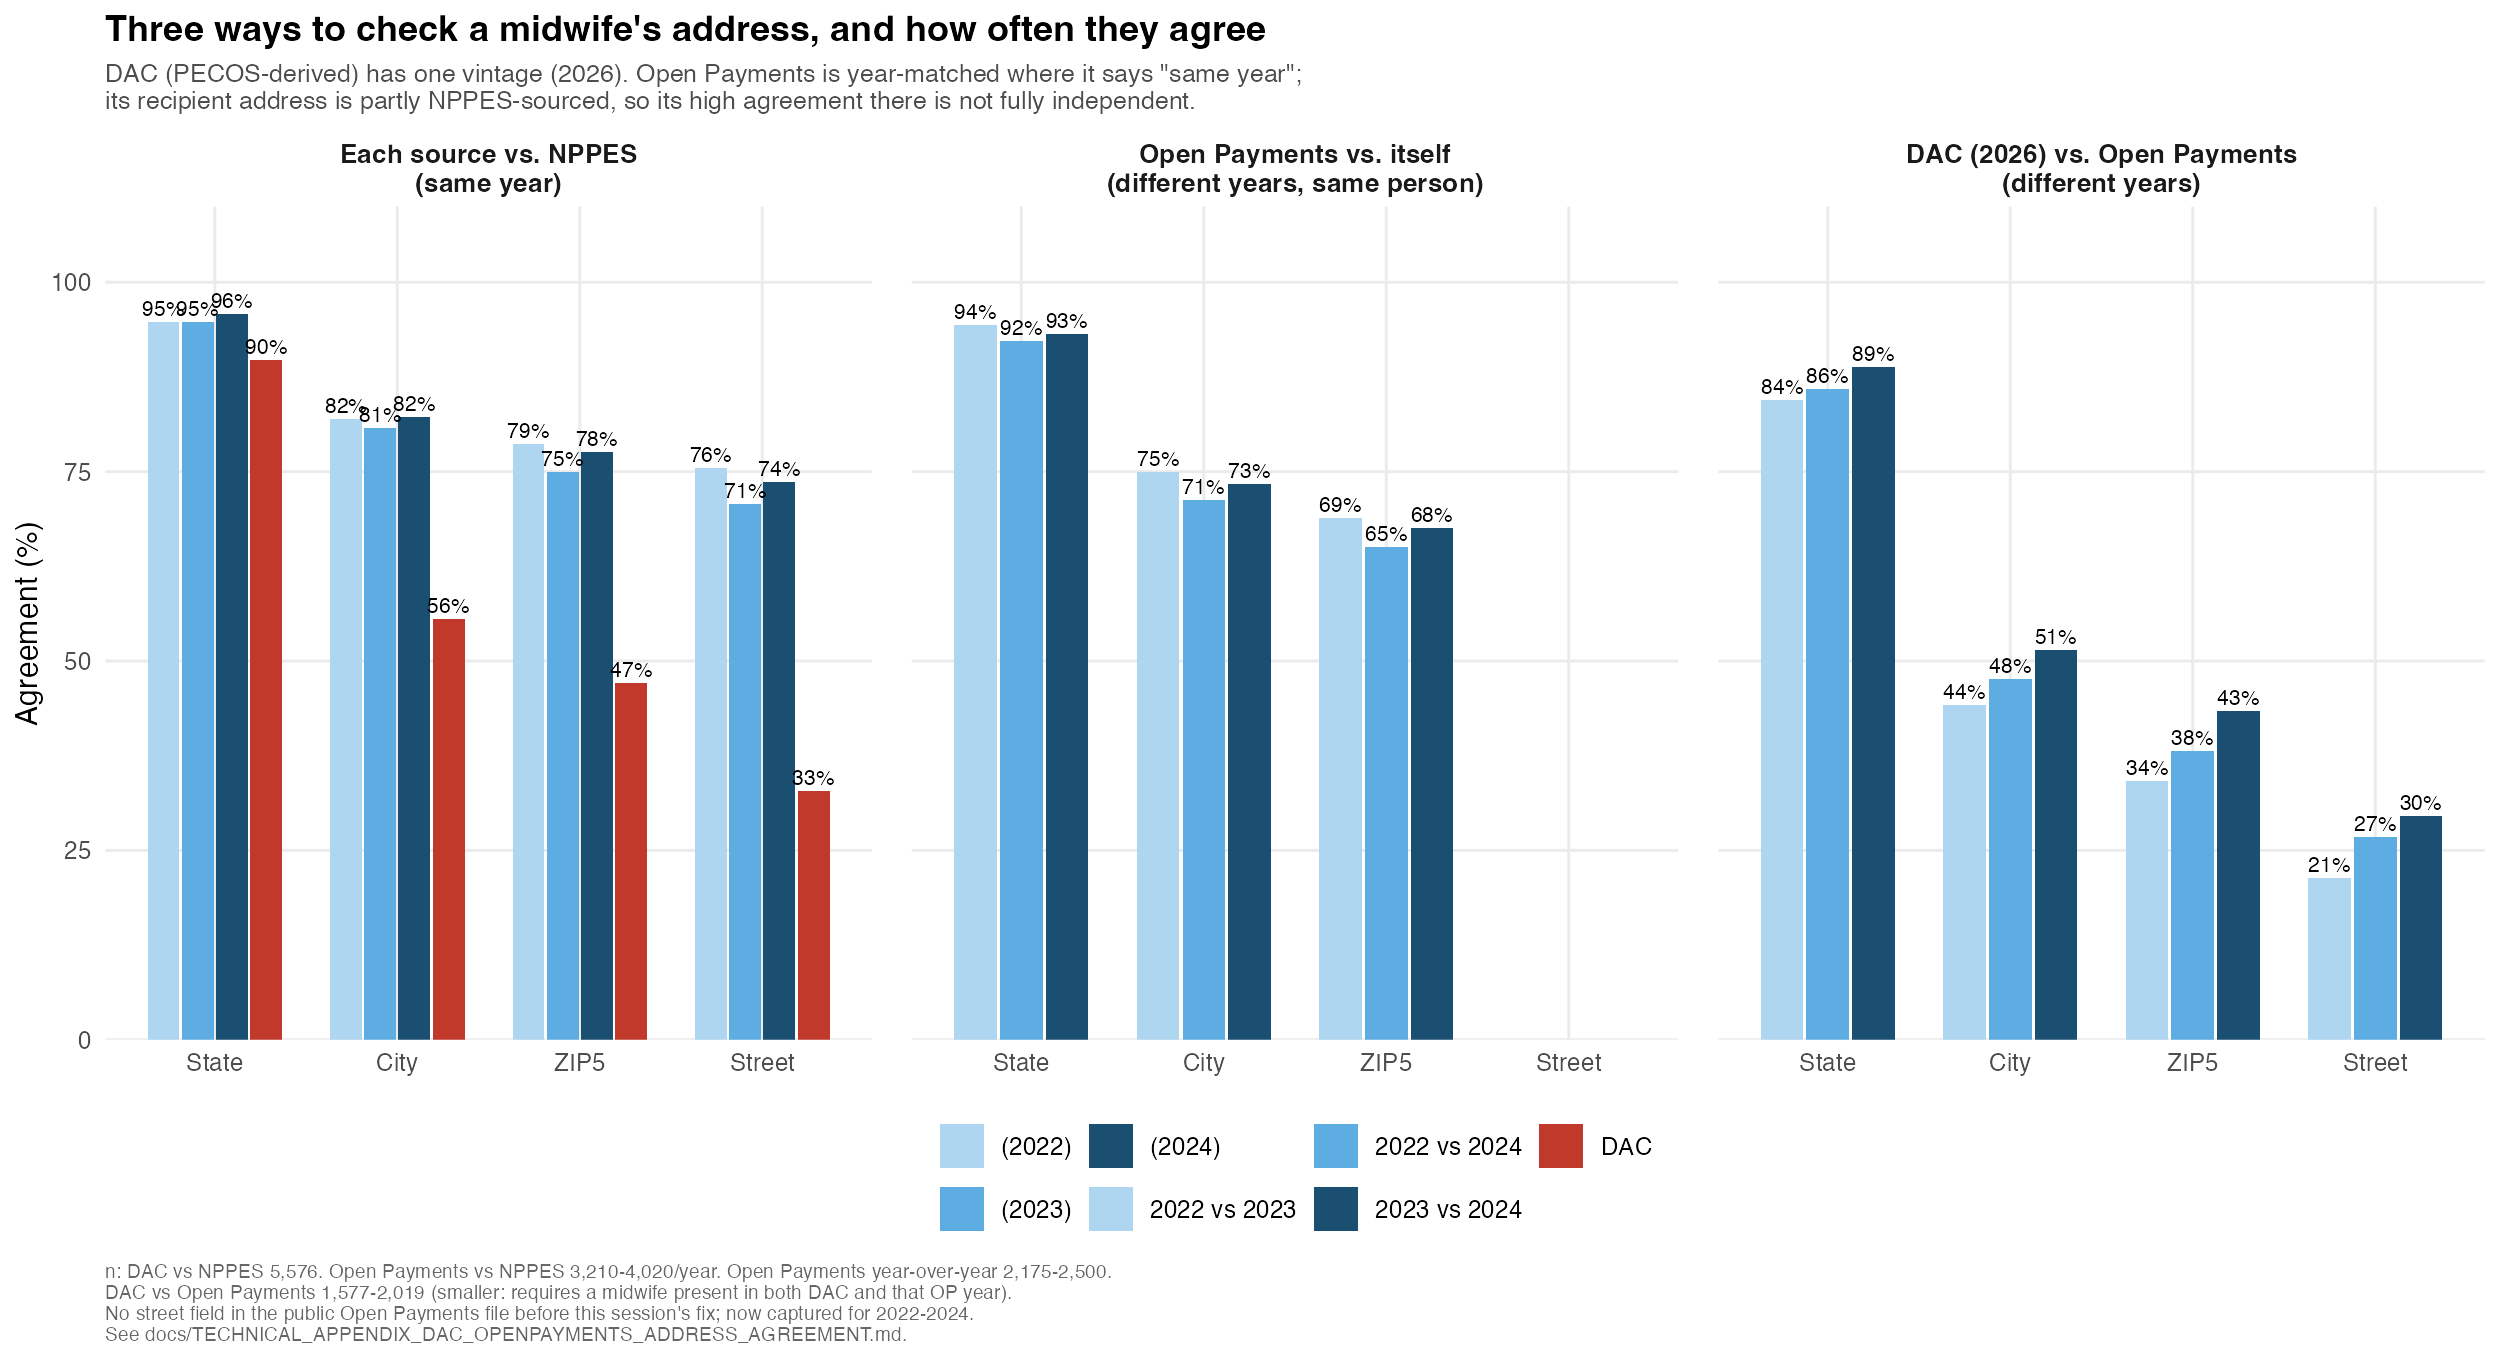
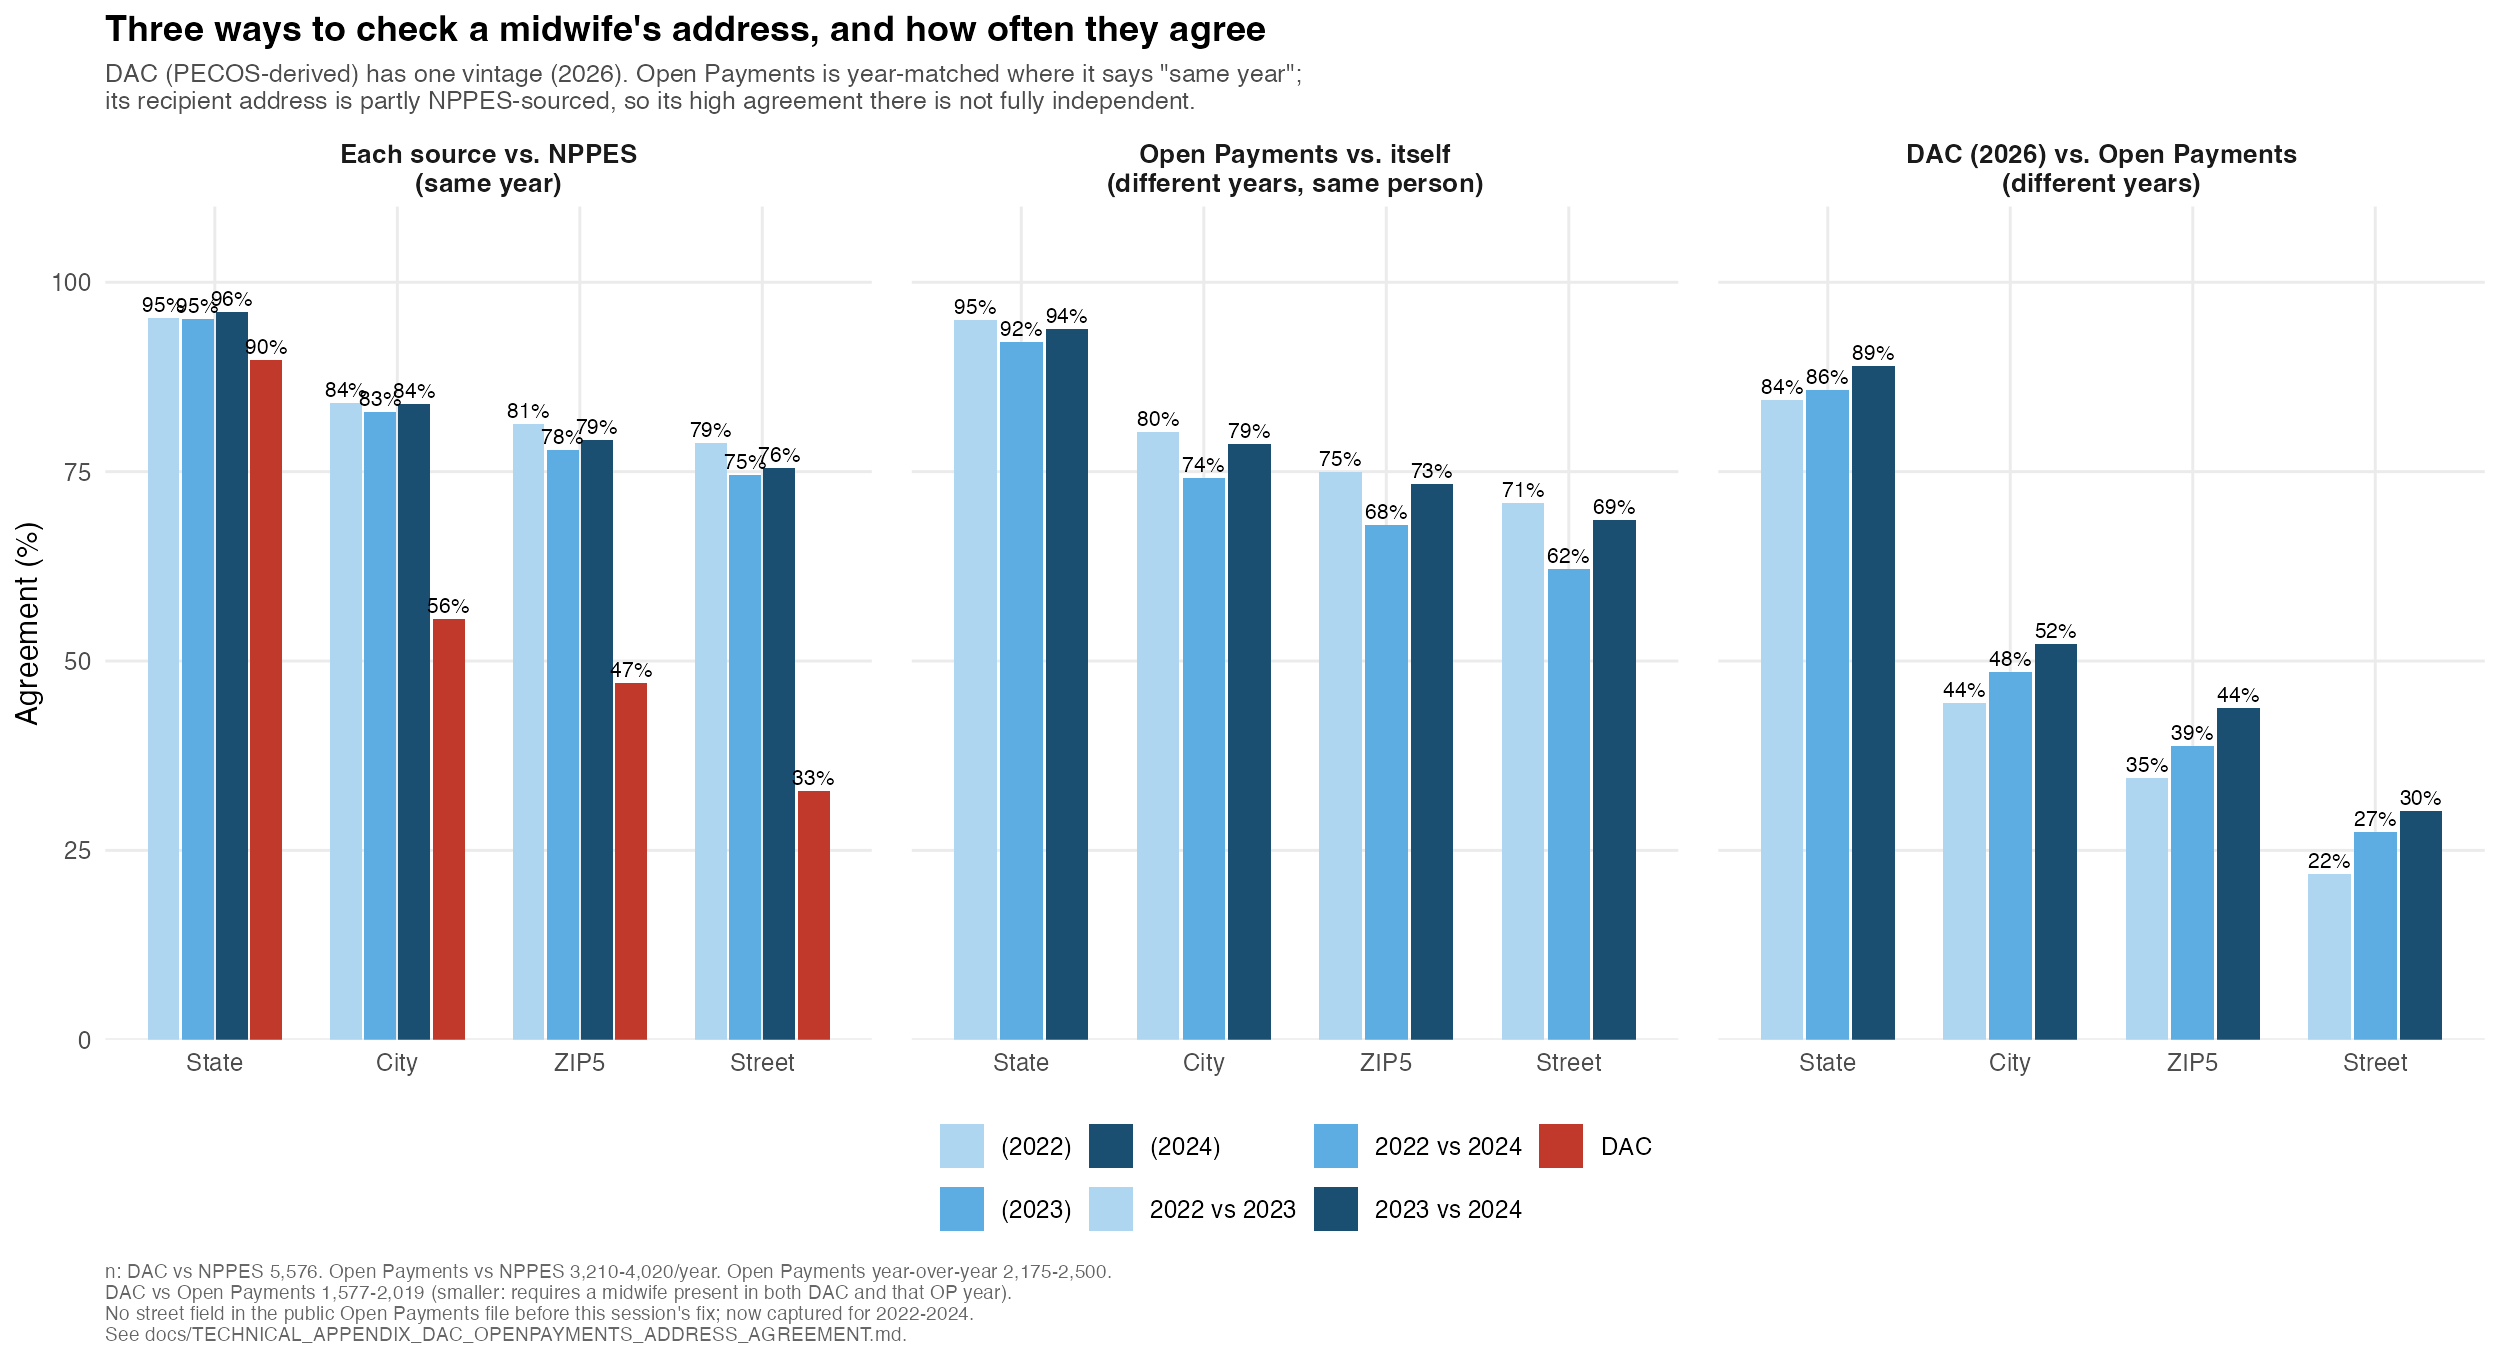
Fix CI drift ratchet: replace silent distinct(.keep_all) with assert_unique_keys
Open Payments is one row per payment transaction, not one row per
recipient-year -- ~37% of matched midwives have more than one reported
address in the same program year. distinct(npi, .keep_all = TRUE) was
silently keeping whichever transaction sorted first; the repo's
keep_all-usage drift ratchet (T40-5) correctly flagged these as new
offenders. Replaced with an explicit, documented rule
(collapse_to_modal_address(): the address reported on the most
transactions that year, ties broken alphabetically) followed by
assert_unique_keys() as an invariant check, and the same for the
NPPES panel dedup.

Also dropped the now-stale levels restriction on the Open Payments
year-over-year comparison -- all three pulled years carry
recipient_address, so street-level year-over-year agreement is
computable and included.

Regenerated the comparison CSV, figure, and technical appendix: using
the modal address instead of an arbitrary one moves every Open
Payments agreement percentage up modestly (methodology fix, not new
data).

Claude-Session: https://claude.ai/code/session_01B86vSCLDD8XppKj5UFN1As

diff --git a/docs/TECHNICAL_APPENDIX_DAC_OPENPAYMENTS_ADDRESS_AGREEMENT.md b/docs/TECHNICAL_APPENDIX_DAC_OPENPAYMENTS_ADDRESS_AGREEMENT.md
@@ -54,6 +54,19 @@ Three questions, not one:
     in Open Payments at all, for 2022 / 2023 / 2024 respectively — appearing
     requires having received a reportable industry payment that year, so
     this is a real but partial subset, not a universal check.
+  - **Open Payments is one row per payment *transaction*, not one row per
+    recipient-year**: ~37% of matched midwives in the 2022 file (and
+    similar shares in 2023/2024) have more than one reported address in the
+    same program year — multiple employers or practice sites paying out
+    that year. Picking a single representative address per NPI-year
+    therefore needs a stated rule, not an arbitrary row. This repo's safe
+    rule is: the `(state, city, zip, street)` combination reported on the
+    **most transactions** that year, ties broken alphabetically for
+    determinism (`collapse_to_modal_address()` in
+    `compare_dac_openpayments_to_nppes_address.R`). The repo's live
+    `distinct(.keep_all = TRUE)` drift ratchet
+    (`tests/test_cycle40_keepall_sweep_scope.R`, T40-5) is what caught the
+    original arbitrary-row version of this script and forced this fix.
 - **NPPES**: `midwife_panel.csv`, the same annual-snapshot panel the
   migration appendix uses. Each comparison below pulls the NPPES snapshot
   for **the same year the other source is dated to** — DAC (2026) against
@@ -75,38 +88,35 @@ table with `comparable_n`/`agree_n` alongside every percentage.
 
 | Level | DAC (2026) | Open Payments 2022 | 2023 | 2024 |
 |---|---:|---:|---:|---:|
-| State | 89.8% | 94.8% | 94.8% | 95.8% |
-| City | 55.6% | 81.9% | 80.7% | 82.2% |
-| ZIP5 | 47.1% | 78.6% | 75.0% | 77.6% |
-| Street | 32.8% | 75.5% | 70.7% | 73.6% |
+| State | 89.8% | 95.3% | 95.2% | 96.1% |
+| City | 55.6% | 84.1% | 82.9% | 83.9% |
+| ZIP5 | 47.1% | 81.3% | 77.9% | 79.2% |
+| Street | 32.8% | 78.8% | 74.6% | 75.5% |
 
 ### 3b. Open Payments against itself, different program years, same person (n = 2,175–2,500)
 
 | Level | 2022 vs 2023 | 2022 vs 2024 | 2023 vs 2024 |
 |---|---:|---:|---:|
-| State | 94.4% | 92.3% | 93.2% |
-| City | 74.9% | 71.2% | 73.4% |
-| ZIP5 | 68.9% | 65.1% | 67.6% |
-
-(No street row: `recipient_address` was only captured starting with this
-session's fix, so year-over-year street continuity cannot yet be checked —
-it will be computable the next time one of these years is re-pulled.)
+| State | 95.0% | 92.1% | 93.8% |
+| City | 80.2% | 74.1% | 78.7% |
+| ZIP5 | 74.9% | 67.9% | 73.4% |
+| Street | 70.9% | 62.1% | 68.6% |
 
 ### 3c. DAC (2026) vs. Open Payments directly, no NPPES in between (n = 1,577–2,019)
 
 | Level | vs. 2022 | vs. 2023 | vs. 2024 |
 |---|---:|---:|---:|
-| State | 84.4% | 85.9% | 88.8% |
-| City | 44.2% | 47.6% | 51.4% |
-| ZIP5 | 34.1% | 38.1% | 43.4% |
-| Street | 21.4% | 26.8% | 29.5% |
+| State | 84.5% | 85.8% | 89.0% |
+| City | 44.5% | 48.5% | 52.3% |
+| ZIP5 | 34.6% | 38.8% | 43.8% |
+| Street | 21.9% | 27.4% | 30.2% |
 
 ## 4. The finding that wasn't expected going in
 
 Two independent sources agree with NPPES noticeably more than they agree
 with **each other**. DAC vs. NPPES is 55.6% at the city level; DAC vs. Open
-Payments is 44.2–51.4%, lower every year, despite Open Payments itself
-agreeing with NPPES at 80–82% city-level. If DAC and Open Payments were each
+Payments is 44.5–52.3%, lower every year, despite Open Payments itself
+agreeing with NPPES at 83–84% city-level. If DAC and Open Payments were each
 simply "noisy around the truth," two independent noisy measurements of the
 same thing should not agree with each other *less* than each agrees with a
 third, also-independent measurement.
@@ -130,7 +140,7 @@ Three non-exclusive explanations, none confirmed here:
   the DAC-vs-Open-Payments disagreement could be genuine moves in the
   intervening 2–4 years rather than source noise — consistent with §3c's
   own pattern of improving agreement as the Open Payments year gets closer
-  to DAC's 2026 vintage (44.2% → 47.6% → 51.4% at the city level, 2022 →
+  to DAC's 2026 vintage (44.5% → 48.5% → 52.3% at the city level, 2022 →
   2023 → 2024).
 - **DAC's PECOS-sourced address and a Medicare-unrelated commercial
   address (Open Payments) are simply two different kinds of record** —
@@ -157,8 +167,8 @@ Three non-exclusive explanations, none confirmed here:
   and re-running `compare_dac_openpayments_to_nppes_address.R`.
 - **The Open-Payments-vs-itself check (§3b) is the one genuinely
   same-source longitudinal address signal this project now has**, independent
-  of NPPES. Its year-over-year disagreement (city: 25–29%) is higher than
-  the within-year Open-Payments-vs-NPPES disagreement (city: 18–19%), which
+  of NPPES. Its year-over-year disagreement (city: 20–26%) is higher than
+  the within-year Open-Payments-vs-NPPES disagreement (city: 16–17%), which
   is the expected direction if some of it is real movement rather than pure
   source noise — but the two are not cleanly separable from this comparison
   alone.
